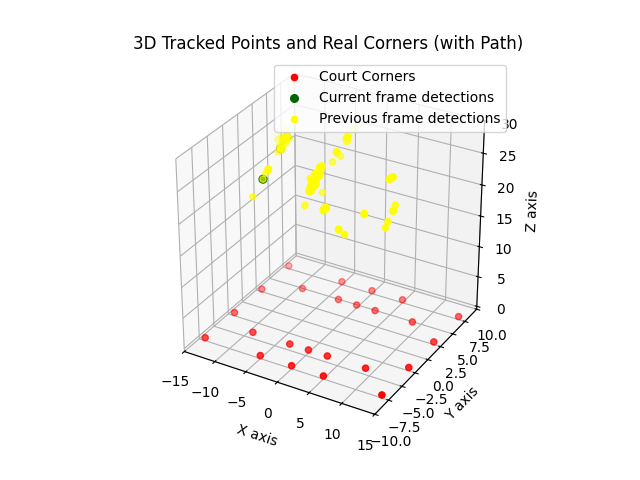
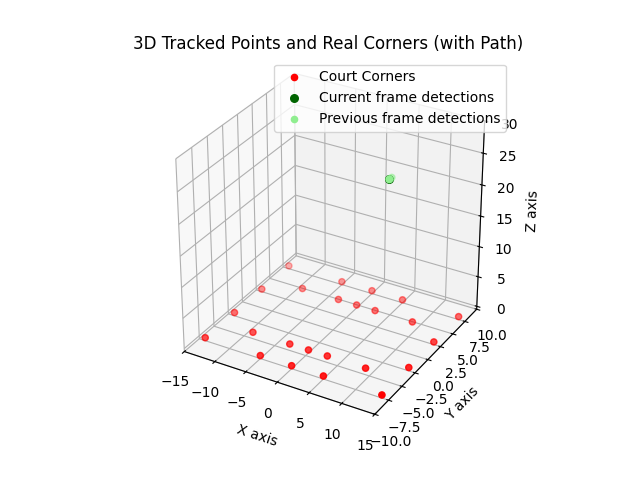
update3

diff --git a/bonnie/analize_detections.py b/bonnie/analize_detections.py
@@ -14,7 +14,7 @@ camerasInfo = load_pickle(PATH_CALIBRATION_MATRIX)
 
 cam = [take_info_camera(n, camerasInfo)[0] for n in VALID_CAMERA_NUMBERS]
 
-TOLERANCE = 0.5
+TOLERANCE = 0.45
 
 def get_projection_matrix(cam):
     K = cam.newcameramtx  
@@ -61,7 +61,13 @@ def get_positions():
         return data["positions"], np.array(data["field_corners"]) 
 
 def are_points_close(point1, point2):
-    return np.linalg.norm(point1 - point2) < TOLERANCE
+    
+    if np.linalg.norm(point1 - point2) < TOLERANCE:
+        print("Distance: ", np.linalg.norm(point1 - point2), " - ACCEPTED")
+        return True
+    elif np.linalg.norm(point1 - point2) >= TOLERANCE:
+        print("Distance: ", np.linalg.norm(point1 - point2), " - DISCARDED")
+        return False
 
 def draw_detection_on_image(image, point2d):
     if image is None:
@@ -102,7 +108,7 @@ def main():
 
     previous_points = set()  # Store points from all previous frames
     scatter_current = ax.scatter([], [], [], c='darkgreen', s=30, marker='o', label="Current frame detections")
-    scatter_previous = ax.scatter([], [], [], c='yellow', s=20, marker='o', label="Previous frame detections")
+    scatter_previous = ax.scatter([], [], [], c='lightgreen', s=20, marker='o', label="Previous frame detections")
 
     for i in range(1, MAX_FRAME):
         det_frame_3D = {}
@@ -134,47 +140,47 @@ def main():
                             if not found_close:
                                 det_frame_3D[tuple(point3d)] = 1
 
-                            path_video1 = os.path.join(PATH_VIDEOS, f"out{cam1}.mp4")
-                            path_video2 = os.path.join(PATH_VIDEOS, f"out{cam2}.mp4")
+                            # path_video1 = os.path.join(PATH_VIDEOS, f"out{cam1}.mp4")
+                            # path_video2 = os.path.join(PATH_VIDEOS, f"out{cam2}.mp4")
                             
-                            # Take frame i from both videos
-                            cap1 = cv2.VideoCapture(path_video1)
-                            cap2 = cv2.VideoCapture(path_video2)
+                            # # Take frame i from both videos
+                            # cap1 = cv2.VideoCapture(path_video1)
+                            # cap2 = cv2.VideoCapture(path_video2)
 
-                            cap1.set(cv2.CAP_PROP_POS_FRAMES, i)
-                            cap2.set(cv2.CAP_PROP_POS_FRAMES, i)
+                            # cap1.set(cv2.CAP_PROP_POS_FRAMES, i)
+                            # cap2.set(cv2.CAP_PROP_POS_FRAMES, i)
 
-                            ret1, frame1 = cap1.read()
-                            ret2, frame2 = cap2.read()
+                            # ret1, frame1 = cap1.read()
+                            # ret2, frame2 = cap2.read()
 
-                            cap1.release()
-                            cap2.release()
+                            # cap1.release()
+                            # cap2.release()
 
-                            if not ret1 or not ret2:
-                                raise FileNotFoundError("Failed to read frames from videos")
+                            # if not ret1 or not ret2:
+                            #     raise FileNotFoundError("Failed to read frames from videos")
 
-                            # Disegna i punti sui frame originali
-                            img_cam1 = draw_detection_on_image(frame1, point2d1)
-                            img_cam2 = draw_detection_on_image(frame2, point2d2)
+                            # # Disegna i punti sui frame originali
+                            # img_cam1 = draw_detection_on_image(frame1, point2d1)
+                            # img_cam2 = draw_detection_on_image(frame2, point2d2)
 
-                            cv2.namedWindow(f"Camera {cam1} Frame {i}", cv2.WINDOW_NORMAL)
-                            cv2.imshow(f"Camera {cam1} Frame {i}", img_cam1)
-                            cv2.waitKey(1)  
+                            # cv2.namedWindow(f"Camera {cam1} Frame {i}", cv2.WINDOW_NORMAL)
+                            # cv2.imshow(f"Camera {cam1} Frame {i}", img_cam1)
+                            # cv2.waitKey(1)  
                             
-                            while True:
-                                key = cv2.waitKey(10) & 0xFF
-                                if key == ord('s'):
-                                    break
+                            # while True:
+                            #     key = cv2.waitKey(10) & 0xFF
+                            #     if key == ord('s'):
+                            #         break
                                 
-                            cv2.namedWindow(f"Camera {cam2} Frame {i}", cv2.WINDOW_NORMAL)
-                            cv2.imshow(f"Camera {cam2} Frame {i}", img_cam2)
+                            # cv2.namedWindow(f"Camera {cam2} Frame {i}", cv2.WINDOW_NORMAL)
+                            # cv2.imshow(f"Camera {cam2} Frame {i}", img_cam2)
     
-                            while True:
-                                key = cv2.waitKey(10) & 0xFF
-                                if key == ord('s'):
-                                    break
+                            # while True:
+                            #     key = cv2.waitKey(10) & 0xFF
+                            #     if key == ord('s'):
+                            #         break
                             
-                            cv2.destroyAllWindows()
+                            # cv2.destroyAllWindows()
 
         valid_points = {point: count for point, count in det_frame_3D.items() if count >= 2}
         det_3D[i] = list(valid_points.keys())
@@ -184,11 +190,18 @@ def main():
             previous_points.update(current_points)
 
         # Update scatter plots for current and previous points
+        if previous_points:
+            temp_previous = np.array(list(set(previous_points) - set(current_points)))
+            
+            # Controlla se temp_previous non è vuoto
+            if temp_previous.size > 0:
+                scatter_previous._offsets3d = (temp_previous[:, 0], temp_previous[:, 1], temp_previous[:, 2])
+            else:
+                scatter_previous._offsets3d = ([], [], [])
+                
         if current_points:
             scatter_current._offsets3d = (np.array(current_points)[:, 0], np.array(current_points)[:, 1], np.array(current_points)[:, 2])
         
-        if previous_points:
-            scatter_previous._offsets3d = (np.array(list(previous_points))[:, 0], np.array(list(previous_points))[:, 1], np.array(list(previous_points))[:, 2])
 
         print(f"Frame {i} - valid points: {len(valid_points)}")
 

diff --git a/simo/prova_tracking_pf.py b/simo/prova_tracking_pf.py
@@ -21,7 +21,7 @@ else:
 print(f'Using device: {device}')
 
 size = 800
-MIN_DISTANCE = 50  # Distanza minima tra le detection in pixel
+MIN_DISTANCE = 20  # Distanza minima tra le detection in pixel
 MAX_BALLS = 3  # Numero massimo di palle da tracciare
 CONFIDENCE_THRESHOLD = 0.5
 AGE_THRESHOLD = 10  # Numero di frame dopo i quali un tracker viene rimosso se non aggiornato
@@ -86,7 +86,7 @@ class MultiballTracker:
     def draw(self, frame):
         for ball in self.balls:
             # Disegna la posizione stimata
-            cv2.circle(frame, tuple(ball.position.astype(int)), 5, (0, 0, 255), -1)
+            # cv2.circle(frame, tuple(ball.position.astype(int)), 5, (0, 0, 255), -1)
             
             # Disegna la traiettoria
             if len(ball.history) > 1:
@@ -108,7 +108,7 @@ def applyModel(frame, model, tracker):
             y_center = (y1 + y2) / 2
             center = (int(x_center), int(y_center))
             detections.append(center)
-            cv2.circle(frame, center, 3, (0, 255, 0), -1)
+            # cv2.circle(frame, center, 3, (0, 255, 0), -1)
 
     tracker.update(detections)
     tracker.draw(frame)
